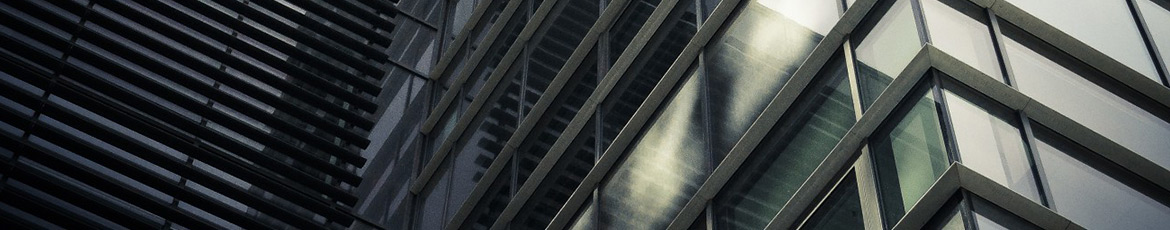
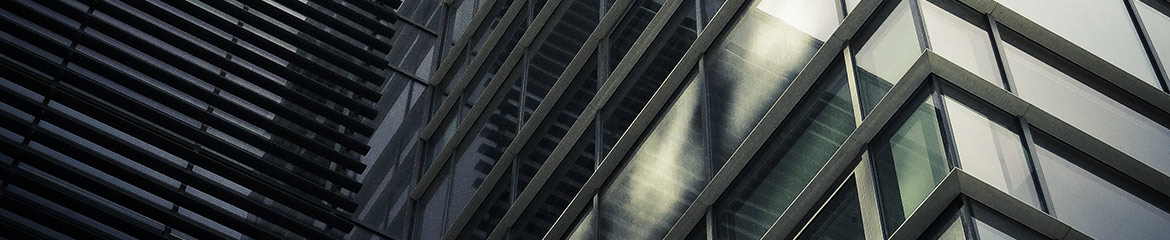
Dropdown main navigation for responsive view. 10px bigger dashboard image.

diff --git a/we_universal/theme/common.css b/we_universal/theme/common.css
@@ -93,7 +93,7 @@ a:active {
 
 .inventea-dashboard {
 	position: relative;
-	min-height: 230px;
+	min-height: 240px;
 	background: url("./images/dashboard.jpg") center center no-repeat;
 	background-size: cover;
 }
@@ -123,7 +123,7 @@ a:active {
  * Forum name and description
  */
 .inventea-sitename {
-	padding: 70px 50px 94px;
+	padding: 76px 50px 98px;
 	color: #fff;
 	font-size: 14px;
 }
@@ -139,16 +139,20 @@ a:active {
  * links on top and user related links on bottom. Displayed only on devices
  * with larger screen resolutions (at least 768px width).
  */
-.inventea-forum-menu,
 .inventea-user-menu {
+	float: right;
+}
+
+.inventea-posts-menu,
+.inventea-forum-menu {
 	position: absolute;
 }
 
-.inventea-forum-menu {
+.inventea-posts-menu {
 	right: 0;
 }
 
-.inventea-user-menu {
+.inventea-forum-menu {
 	bottom: 0;
 }
 
@@ -179,104 +183,6 @@ a:active {
 .inventea-menu li > a:active {
 	background: rgba(0, 0, 0, 0.9);
 	text-decoration: none;
-}
-
-/**
- * Secondary menu
- *
- * Dropdown menu activated after button click. Secondary mobile navigation
- * is displayed only on devices with small screen resolutions (768px width
- * or less).
- */
-.inventea-toggle {
-	padding: 4px 6px 2px;
-	outline: 0;
-	border: 0;
-	border-bottom: 3px solid #ccc;
-	border-radius: 5px;
-	background: #e9e9e9;
-	color: #414141;
-}
-
-/* Remove unnecessary padding in Firefox */
-.inventea-toggle::-moz-focus-inner {
-	padding: 0;
-	border: 0;
-}
-
-.inventea-toggle:hover,
-.inventea-toggle:active {
-	outline: 0;
-	cursor: pointer;
-}
-
-.inventea-dropdown-menu {
-	position: absolute;
-	z-index: 1;
-	display: none;
-	box-shadow: 2px 2px 2px 0 rgba(0, 0, 0, 0.5);
-	list-style: none;
-	background: #292c2f;
-}
-
-/* Triangle above dropdown menu */
-.inventea-dropdown-menu::before {
-	content: "";
-	position: absolute;
-	right: 10px;
-	display: block;
-	width: 0;
-	height: 0;
-	margin-top: -12px;
-	border-style: solid;
-	border-width: 0 14px 12px 14px;
-	border-color: transparent transparent #292c2f transparent;
-}
-
-.inventea-dropdown-menu-item {
-	min-width: 190px;
-}
-
-/* Remove bottom border from last menu item */
-.inventea-dropdown-menu-item:last-child a {
-	border: 0;
-}
-
-.inventea-dropdown-menu-item a {
-	display: block;
-	padding: 12px 15px 12px 14px;
-	border-bottom: 1px solid #46474a;
-	color: #eee;
-}
-
-.inventea-dropdown-menu-item a:focus,
-.inventea-dropdown-menu-item a:hover {
-	background: #343639;
-	text-decoration: none;
-}
-
-.inventea-dropdown-menu-item .fa {
-	margin-right: 5px;
-	font-size: 14px;
-}
-
-/* Forum and topic actions dropdown menu */
-.inventea-actions-menu {
-	float: right;
-}
-
-.inventea-actions-menu-toggle {
-	font-size: 14px;
-}
-
-.inventea-actions-dropdown-menu  {
-	top: 57px;
-	right: 8px;
-}
-
-/* Don't display mobile menu on large screens */
-.inventea-mobile-menu {
-	display: none;
 }
 
 /**

diff --git a/we_universal/template/navbar_responsive_header.html b/we_universal/template/navbar_responsive_header.html
@@ -1,0 +1,37 @@
+<div class="dropdown-container hidden inventea-mobile-dropdown-menu">
+    <a href="#" class="dropdown-trigger inventea-toggle"><i class="fa fa-bars"></i></a>
+    <div class="dropdown hidden">
+        <div class="pointer"><div class="pointer-inner"></div></div>
+        <ul class="dropdown-contents" role="menubar">
+            <!-- IF U_SITE_HOME --><li><a href="{U_SITE_HOME}" role="menuitem"><i class="fa fa-fw fa-home"></i> {L_SITE_HOME}</a></li><!-- ENDIF -->
+            <li><a href="{U_INDEX}" role="menuitem"><i class="fa fa-fw <!-- IF U_SITE_HOME -->fa-globe<!-- ELSE -->fa-home<!-- ENDIF -->"></i> {L_INDEX}</a></li>
+
+            <!-- EVENT overall_header_navigation_prepend -->
+
+            <li><a href="{U_FAQ}" role="menuitem"><i class="fa fa-fw fa-info-circle"></i> {L_FAQ}</a></li>
+
+            <!-- EVENT navbar_header_quick_links_before -->
+
+            <!-- IF S_DISPLAY_SEARCH -->
+                <li><a href="{U_SEARCH}" role="menuitem"><i class="fa fa-fw fa-search"></i> {L_SEARCH}</a></li>
+                <!-- IF S_REGISTERED_USER --><li><a href="{U_SEARCH_SELF}" role="menuitem"><i class="fa fa-fw fa-comments-o"></i> {L_SEARCH_SELF}</a></li><!-- ENDIF -->
+                <!-- IF S_USER_LOGGED_IN --><li><a href="{U_SEARCH_NEW}" role="menuitem"><i class="fa fa-fw fa-comment"></i> {L_SEARCH_NEW}</a></li><!-- ENDIF -->
+                <!-- IF S_LOAD_UNREADS --><li><a href="{U_SEARCH_UNREAD}" role="menuitem"><i class="fa fa-fw fa-comments"></i> {L_SEARCH_UNREAD}</a></li><!-- ENDIF -->
+                <li><a href="{U_SEARCH_UNANSWERED}" role="menuitem"><i class="fa fa-fw fa-comment-o"></i> {L_SEARCH_UNANSWERED}</a></li>
+                <li><a href="{U_SEARCH_ACTIVE_TOPICS}" role="menuitem"><i class="fa fa-fw fa-check-circle-o"></i> {L_SEARCH_ACTIVE_TOPICS}</a></li>
+            <!-- ENDIF -->
+
+            <!-- EVENT navbar_header_quick_links_after -->
+
+            <!-- IF not S_IS_BOT -->
+                <!-- IF S_DISPLAY_MEMBERLIST --><li><a href="{U_MEMBERLIST}" role="menuitem"><i class="fa fa-fw fa-users"></i> {L_MEMBERLIST}</a></li><!-- ENDIF -->
+                <!-- IF U_TEAM --><li><a href="{U_TEAM}" role="menuitem"><i class="fa fa-fw fa-shield"></i> {L_THE_TEAM}</a></li><!-- ENDIF -->
+            <!-- ENDIF -->
+
+            <!-- IF U_MCP --><li><a href="{U_MCP}" title="{L_MCP_SHORT}" role="menuitem"><i class="fa fa-fw fa-tachometer"></i> {L_MCP}</a></li><!-- ENDIF -->
+            <!-- IF U_ACP --><li><a href="{U_ACP}" title="{L_ACP_SHORT}" role="menuitem"><i class="fa fa-fw fa-cog"></i> {L_ACP}</a></li><!-- ENDIF -->
+
+            <!-- EVENT overall_header_navigation_append -->
+        </ul>
+    </div>
+</div>

diff --git a/we_universal/theme/responsive.css b/we_universal/theme/responsive.css
@@ -40,6 +40,60 @@ body {
 }
 
 /**
+ * Forum name and description
+ */
+.inventea-sitename {
+	padding: 43px 25px 46px;
+}
+
+/**
+ * Secondary menu
+ *
+ * Dropdown menu activated after button click. Secondary mobile navigation
+ * is displayed only on devices with small screen resolutions (768px width
+ * or less).
+ */
+.inventea-posts-menu,
+.inventea-forum-menu {
+	display: none;
+}
+
+.inventea-mobile-dropdown-menu {
+	display: block;
+	float: right;
+	margin-top: -6px;
+	margin-left: 10px;
+}
+
+.inventea-mobile-dropdown-menu .dropdown {
+	top: 30px;
+}
+
+.inventea-toggle {
+	display: block;
+	padding: 2px 6px 2px;
+	outline: 0;
+	border: 0;
+	border-bottom: 3px solid #ccc;
+	border-radius: 5px;
+	background: #e9e9e9;
+	color: #414141;
+	font-size: 18px;
+}
+
+/* Remove unnecessary padding in Firefox */
+.inventea-toggle::-moz-focus-inner {
+	padding: 0;
+	border: 0;
+}
+
+.inventea-toggle:hover,
+.inventea-toggle:active {
+	outline: 0;
+	cursor: pointer;
+}
+
+/**
  * Footer
  */
 #nav-footer,

diff --git a/we_universal/template/overall_header.html b/we_universal/template/overall_header.html
@@ -58,7 +58,9 @@
 <!-- EVENT overall_header_body_before -->
 
 <div id="wrapper" class="inventea-wrapper inventea-statusbar">
-	<ul class="linklist bulletin" role="menubar">
+	<!-- INCLUDE navbar_responsive_header.html -->
+
+	<ul class="linklist bulletin inventea-user-menu" role="menubar">
 		<!-- IF S_REGISTERED_USER -->
 			<li id="username_logged_in" class="rightside <!-- IF CURRENT_USER_AVATAR --> no-bulletin<!-- ENDIF -->" data-skip-responsive="true">
 				<!-- EVENT navbar_header_username_prepend -->

diff --git a/we_universal/template/navbar_header.html b/we_universal/template/navbar_header.html
@@ -1,5 +1,5 @@
 <nav role="navigation">
-	<div class="inventea-forum-menu">
+	<div class="inventea-posts-menu">
 		<ul class="inventea-menu" role="menubar">
 			<!-- EVENT navbar_header_quick_links_before -->
 
@@ -15,7 +15,7 @@
 		</ul>
 	</div>
 
-	<div class="inventea-user-menu">
+	<div class="inventea-forum-menu">
 		<ul class="inventea-menu" role="menubar">
 			<!-- EVENT overall_header_navigation_prepend -->
 
